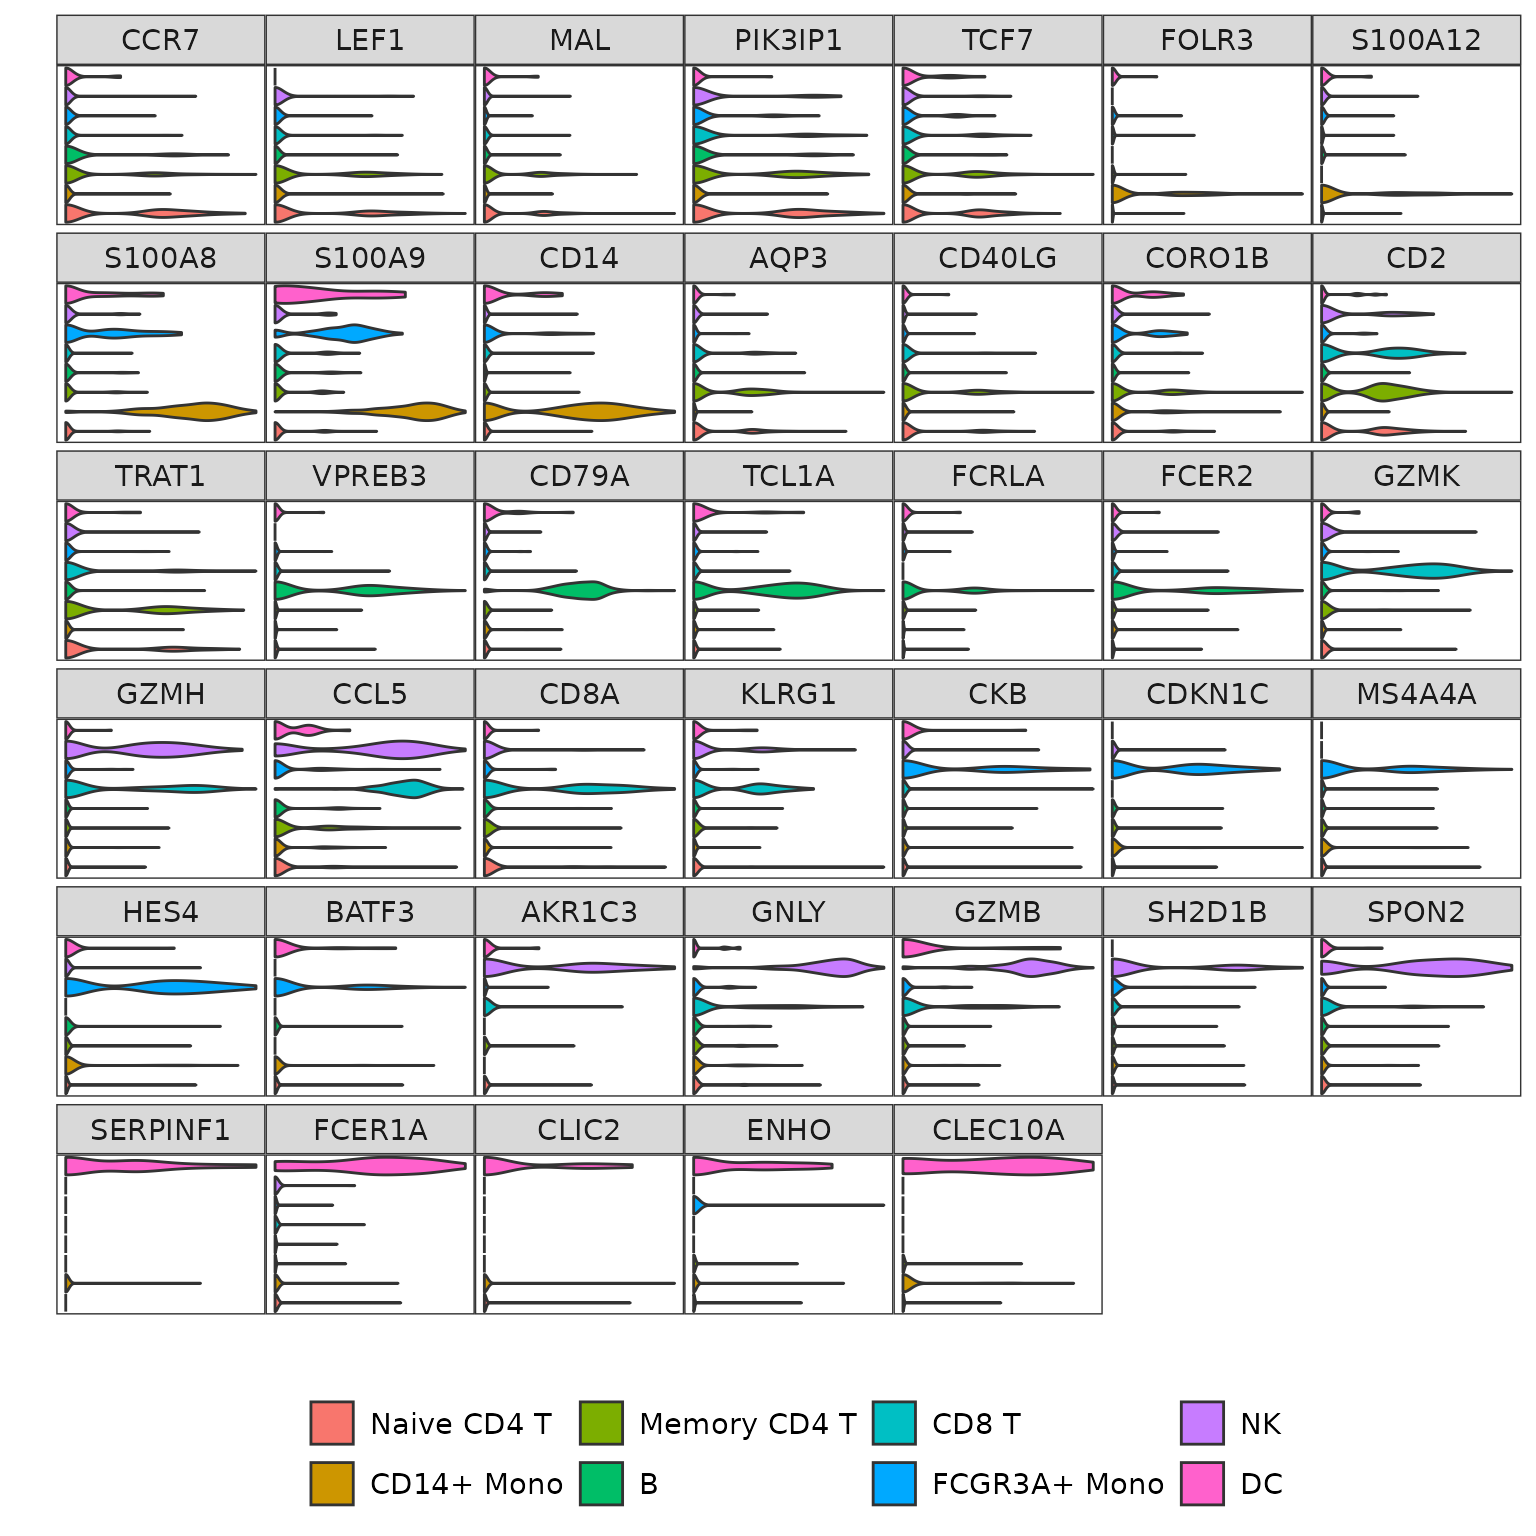
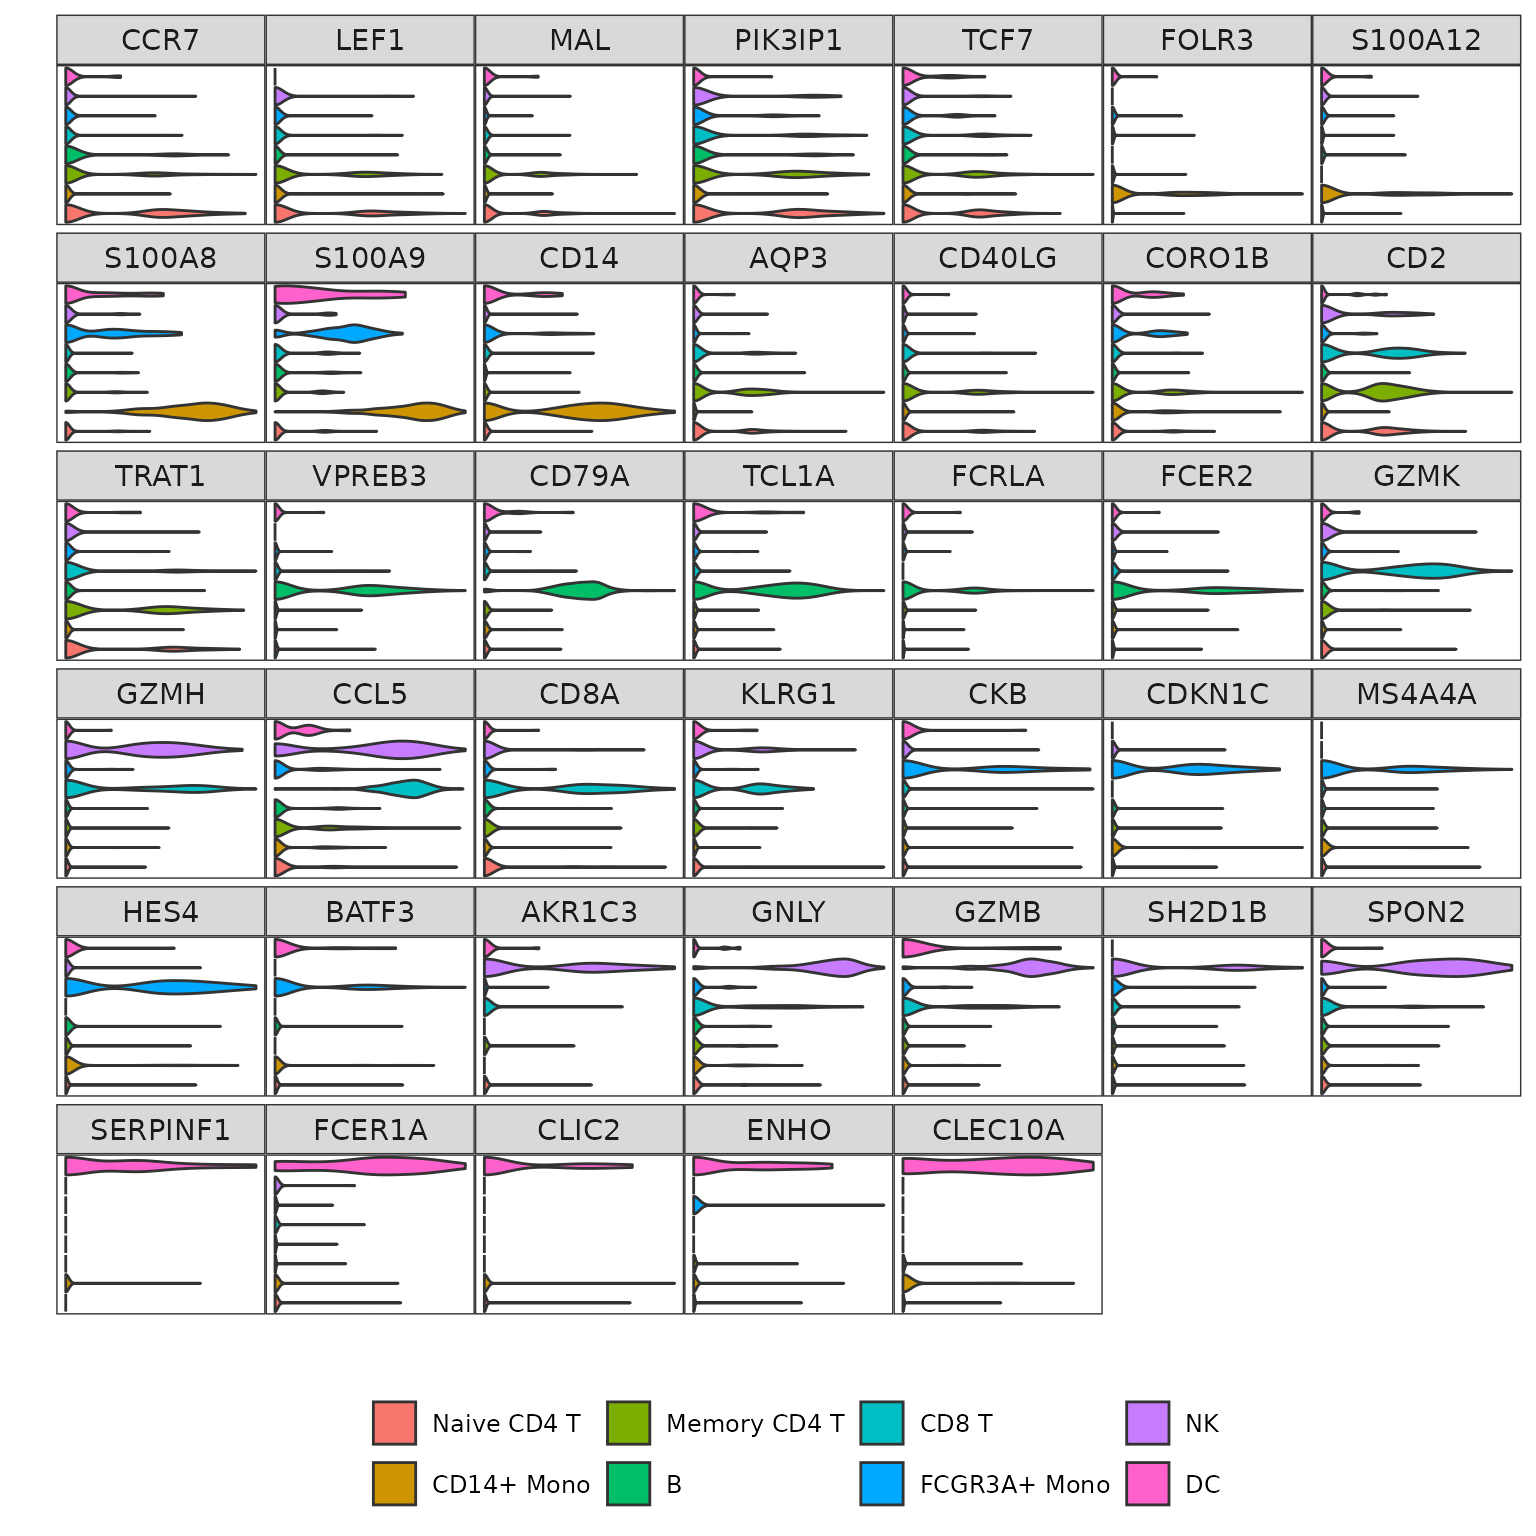
Deploying to gh-pages from @ Alexis-Varin/RightSeuratTools@80a8735b0a1dc82576f632da0a6537c7f4538ecd 🚀

Changed region(s): [[0.1875, 0.9062, 0.8438, 1.0]]

diff --git a/reference/Find_Annotation_Markers.html b/reference/Find_Annotation_Markers.html
@@ -157,8 +157,9 @@
     <div class="sourceCode"><pre class="sourceCode r"><code><span class="r-in"><span><span class="co"># Prepare data</span></span></span>
 <span class="r-in"><span><span class="va">pbmc3k</span> <span class="op">&lt;-</span> <span class="fu"><a href="Right_Data.html">Right_Data</a></span><span class="op">(</span><span class="st">"pbmc3k"</span><span class="op">)</span></span></span>
 <span class="r-in"><span></span></span>
-<span class="r-in"><span><span class="co"># Example 1: default parameters</span></span></span>
-<span class="r-in"><span><span class="va">pbmc3k.markers</span> <span class="op">&lt;-</span> <span class="fu">Find_Annotation_Markers</span><span class="op">(</span><span class="va">pbmc3k</span><span class="op">)</span></span></span>
+<span class="r-in"><span><span class="co"># Example 1: default parameters and origin of markers</span></span></span>
+<span class="r-in"><span><span class="va">pbmc3k.markers</span> <span class="op">&lt;-</span> <span class="fu">Find_Annotation_Markers</span><span class="op">(</span><span class="va">pbmc3k</span>,</span></span>
+<span class="r-in"><span>                                          named.features <span class="op">=</span> <span class="cn">TRUE</span><span class="op">)</span></span></span>
 <span class="r-out co"><span class="r-pr">#&gt;</span> Finding markers for cluster Naive CD4 T against all other clusters</span>
 <span class="r-out co"><span class="r-pr">#&gt;</span> Finding markers for cluster CD14+ Mono against all other clusters</span>
 <span class="r-out co"><span class="r-pr">#&gt;</span> Finding markers for cluster Memory CD4 T against all other clusters</span>

diff --git a/reference/Grid_VlnPlot.html b/reference/Grid_VlnPlot.html
@@ -68,7 +68,7 @@
 <span>  idents.text.size <span class="op">=</span> <span class="fl">9</span>,</span>
 <span>  show.idents <span class="op">=</span> <span class="cn">FALSE</span>,</span>
 <span>  features.text.size <span class="op">=</span> <span class="fl">11</span>,</span>
-<span>  legend.text.size <span class="op">=</span> <span class="fl">11</span>,</span>
+<span>  legend.text.size <span class="op">=</span> <span class="fl">9</span>,</span>
 <span>  legend.side <span class="op">=</span> <span class="st">"bottom"</span>,</span>
 <span>  show.legend <span class="op">=</span> <span class="cn">TRUE</span>,</span>
 <span>  ncol <span class="op">=</span> <span class="st">"square"</span></span>
